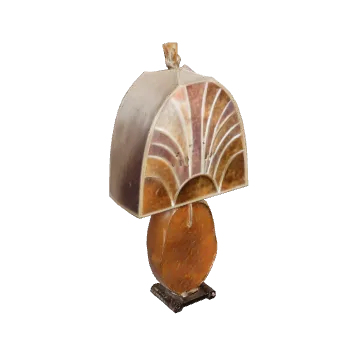
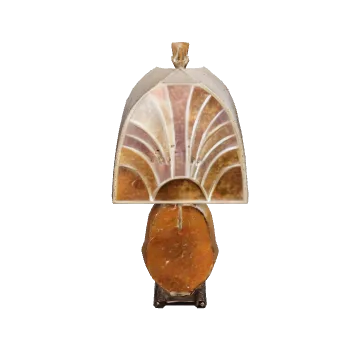
feat(cards): 角色卡打开就是最像原照的一面（task #3）
卡片不再按打斗时的摆法放倒再转 0.6：把 normalization.matrix 的旋转撤回，
物件按生成时的样子立着（Y 向上），照片件的 +Z 正面就是改图的那一面，
新拍的件自动算，不用手填。锅、废土锅、枕头生成时就不是立着的，
catalog 里 card.upright:false + yaw 0.6，保持原来的三分之二侧视角。
静态图按新角度重出；轮廓图同样按卡片姿势算。

Changed region(s): [[0.3056, 0.0917, 0.7028, 0.8861]]

diff --git a/web/src/models.js b/web/src/models.js
@@ -20,6 +20,26 @@ const urlFor = glb => isUrl(glb) ? glb : Object.entries(urls).find(([key]) => ke
 const loader = new GLTFLoader();
 const cache = new Map();
 const loading = new Map();
+const poses = new Map();
+
+/**
+ * How a card holds the item (task #3, Elara 6c4b05c9: open a card and it already shows the side most like the photo,
+ * no turning). The game model is the generated one laid out for the fight by `normalization.matrix`; the card turns
+ * that layout back, so the item stands as it was made: Y up, and for a photo-made item (Aholo, Lux3D) facing +Z, the
+ * way the styled picture looks at it. That needs no one to set it per item, so a judge's own new photo gets it too.
+ * `card.yaw` (radians about Y, catalog) turns a model whose front is elsewhere; `card.upright: false` keeps the fight's
+ * layout for a model that does not stand the way it was made (the two pans and the pillow were made facing the camera
+ * edge-on or face-on; they keep the old three-quarter view, yaw 0.6).
+ */
+function cardPose(item) {
+  const pose = new THREE.Matrix4(), m = item.normalization?.matrix;
+  if (m && item.card?.upright !== false) {
+    const layout = new THREE.Matrix3().setFromMatrix4(new THREE.Matrix4().fromArray(m)), det = layout.determinant();
+    // The layout's uniform scale is the card fit's business; only its turn (and any mirroring) is undone.
+    if (Math.abs(det) > 1e-12) pose.setFromMatrix3(layout.multiplyScalar(1 / Math.cbrt(Math.abs(det))).invert());
+  }
+  return {pose, yaw: item.card?.yaw ?? 0};
+}
 
 /** Loads the given items' GLBs, each once and only when first needed (keeps the first load small). */
 export function loadModels(items) {
@@ -45,6 +65,7 @@ async function loadOne(item) {
       }
     });
     cache.set(item.id, gltf.scene);
+    poses.set(item.id, cardPose(item));
   }
 }
 
@@ -82,8 +103,9 @@ export function instantiate(itemId, uniforms) {
 }
 
 /**
- * One item on its own turntable for the 角色库 cards and 看它怎么来的: lit like the stage, centred, and framed so the
- * whole turn fits a square. Drawn live by LiveTurns (livecards.js); null until the model has loaded.
+ * One item on its own turntable for the 角色库 cards and 看它怎么来的: stood as it was made (cardPose), lit like the
+ * stage, centred, and framed so the whole turn fits a square. `yaw` is the turn that faces its front to the camera.
+ * Drawn live by LiveTurns (livecards.js); null until the model has loaded.
  */
 export function turnRig(itemId, environment, zoom = 1) {
   const src = cache.get(itemId);
@@ -94,12 +116,13 @@ export function turnRig(itemId, environment, zoom = 1) {
   const keyLight = new THREE.DirectionalLight(0xffffff, 2.2);
   keyLight.position.set(2, 3, 2.5);
   scene.add(keyLight);
-  const obj = src.clone(true), spin = new THREE.Group();
+  const obj = src.clone(true), spin = new THREE.Group(), {pose, yaw} = poses.get(itemId);
+  obj.applyMatrix4(pose);
   spin.add(obj);
   scene.add(spin);
   const box = new THREE.Box3().setFromObject(obj), center = box.getCenter(new THREE.Vector3());
   obj.position.sub(center);
-  return {scene, camera: turnCamera(box.translate(center.negate()), zoom), spin};
+  return {scene, camera: turnCamera(box.translate(center.negate()), zoom), spin, yaw};
 }
 
 /**
@@ -120,18 +143,16 @@ function turnCamera(box, zoom = 1) {
 
 /**
  * The item's outline before its model has loaded, for an item without a still (task #37: a card must not sit empty and
- * look broken): the catalog hull, framed by the same turntable camera with its long side across the view, as an SVG path in a 0–100 square.
- * Null without a hull.
+ * look broken): the catalog hull, stood and turned as the card holds it, framed by the same turntable camera, as an SVG
+ * path in a 0–100 square. Null without a hull.
  */
 export function outlinePath(item) {
-  if (!item.hull?.length || !item.bounds) return null;
-  const box = new THREE.Box3(new THREE.Vector3(...item.bounds.min), new THREE.Vector3(...item.bounds.max));
-  const center = box.getCenter(new THREE.Vector3()), camera = turnCamera(box.clone().translate(center.clone().negate()));
-  // Long side across, turned a little so it reads as an object rather than a flat side view.
-  const size = box.getSize(new THREE.Vector3()), angle = (size.z > size.x ? Math.PI / 2 : 0) + 0.35;
-  const v = new THREE.Vector3(), turn = new THREE.Matrix4().makeRotationY(angle);
-  const pts = item.hull.map(([x, y, z]) => {
-    v.set(x, y, z).sub(center).applyMatrix4(turn).project(camera);
+  if (!item.hull?.length) return null;
+  const {pose, yaw} = cardPose(item), stood = item.hull.map(p => new THREE.Vector3(...p).applyMatrix4(pose));
+  const box = new THREE.Box3().setFromPoints(stood), center = box.getCenter(new THREE.Vector3());
+  const camera = turnCamera(box.clone().translate(center.clone().negate())), turn = new THREE.Matrix4().makeRotationY(yaw);
+  const pts = stood.map(v => {
+    v.sub(center).applyMatrix4(turn).project(camera);
     return [(v.x + 1) * 50, (1 - v.y) * 50];
   });
   // Convex hull of the projected points (monotone chain).

diff --git a/web/src/livecards.js b/web/src/livecards.js
@@ -12,9 +12,9 @@ import {turnRig} from './models.js';
  * render), at most 2 device pixels per CSS pixel, and a still frame for reduced motion.
  */
 const TURN = 6; // seconds per turn, as the strips had
-// The held angle (reduced motion, 看它怎么来的) and where every turn starts, which is also the angle of the card's
-// pre-made still (data/stills, task #39), so the model fades in over its own picture.
-const STILL_ANGLE = 0.6;
+// Every turn starts at the item's front (rig.yaw, models.js cardPose), which is also the held angle (reduced motion,
+// 看它怎么来的) and the angle of the card's pre-made still (data/stills, task #39), so the model fades in over its own
+// picture. For a photo-made item the front is the side its styled picture shows.
 const FADE = 0.4; // seconds the model takes to fade in over its still (style.css); it holds the still's angle meanwhile
 const reduced = matchMedia('(prefers-reduced-motion: reduce)');
 
@@ -49,13 +49,13 @@ export class LiveTurns {
   }
 
   /**
-   * The item at the still angle as a `size`-pixel WebP with a clear background, for data/stills (scripts/make-stills.mjs).
+   * The item at its front as a `size`-pixel WebP with a clear background, for data/stills (scripts/make-stills.mjs).
    * The stage canvas has no alpha, so the model is drawn over black and over white and the alpha is the difference.
    */
   shot(itemId, size) {
     const rig = turnRig(itemId, this.environment);
     if (!rig) throw Error(`Model not loaded: ${itemId}`);
-    rig.spin.rotation.y = STILL_ANGLE;
+    rig.spin.rotation.y = rig.yaw;
     const r = this.renderer, gl = r.domElement, pr = r.getPixelRatio();
     if (size > Math.min(gl.width, gl.height)) throw Error(`Stage canvas smaller than ${size}px`);
     const saved = {viewport: r.getViewport(new THREE.Vector4()), scissor: r.getScissor(new THREE.Vector4()), scissorTest: r.getScissorTest(), color: r.getClearColor(new THREE.Color()), alpha: r.getClearAlpha()};
@@ -108,7 +108,7 @@ export class LiveTurns {
       // The canvas has no alpha: clear to the colour the card shows behind the model.
       r.setClearColor(v.bg ??= backdrop(v.canvas), 1);
       v.t0 ??= t;
-      v.rig.spin.rotation.y = STILL_ANGLE + (v.still || reduced.matches ? 0 : (Math.max(0, t - v.t0 - FADE) / TURN) * Math.PI * 2);
+      v.rig.spin.rotation.y = v.rig.yaw + (v.still || reduced.matches ? 0 : (Math.max(0, t - v.t0 - FADE) / TURN) * Math.PI * 2);
       r.render(v.rig.scene, v.rig.camera);
       v.ctx.drawImage(gl, 0, gl.height - size, size, size, 0, 0, size, size);
       // The card fades the model in over its outline only once there is a picture to show (task #37).
